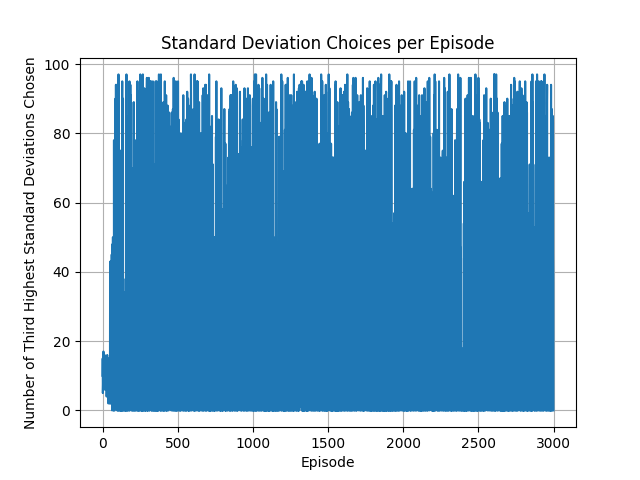
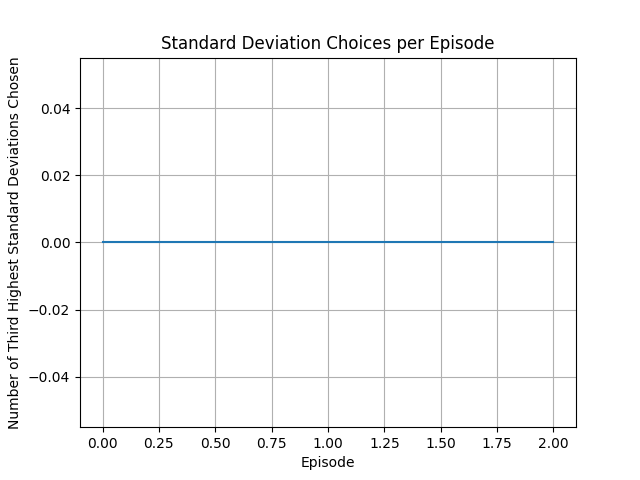
data simulation developed for one bad seed

diff --git a/SULI/src/simulation.py b/SULI/src/simulation.py
@@ -1,7 +1,7 @@
 import numpy as np
 import gym
 from gym import spaces
-from random import random
+from random import random, randint
 from tensorforce.environments import Environment
 from tensorforce.agents import Agent
 from tensorforce.execution import Runner
@@ -44,7 +44,7 @@ class CustomEnvironment(Environment):
     # allActions = np.array([])
     allEpisodes = np.array([])
 
-    for i in range(3000):
+    for i in range(3):
         allEpisodes = np.append(allEpisodes, i)
 
 
@@ -69,14 +69,15 @@ class CustomEnvironment(Environment):
             self.highest = 0
             self.sndHighest = 0
             self.trdHighest = 0
-            # self.simulation = [[0, 0, 0, 0, 0, 0, 7, 2, 0, 0], [0, 3, 0, 0, 0, 3, 0, 0, 0, 0],[0, 0, 2, 9, 0, 0, 0, 0, 0, 0],[0, 0, 0, 0, 1, 0, 0, 1, 0, 0],[0, 0, 0, 0, 0, 0, 1, 0, 8, 0]]
+            # self.simulation = []
+            self.worstSeed = randint(0, self.SAMPLES - 1)
 
 
             for i in range(self.SAMPLES):
                 col = []
                 for j in range(self.TRIALS):
                     if j < self.startingPoint:
-                        col.append(random())
+                        col.append(1)
                     else:
                         col.append(0)
                 self.GRID.append(col)
@@ -148,10 +149,11 @@ class CustomEnvironment(Environment):
         self.sndHighest = 0
         self.trdHighest = 0
         self.agent_pos = self.startingPoint
+        self.worstSeed = randint(0, self.SAMPLES - 1)
         for i in range(self.SAMPLES):
             for j in range(self.TRIALS):
                 if j < self.startingPoint:
-                    self.GRID[i][j] = random()
+                    self.GRID[i][j] = 1
                 else:
                     self.GRID[i][j] = 0
 
@@ -186,7 +188,7 @@ class CustomEnvironment(Environment):
             #     self.reward -= 1
             #     self.skippedRepeat += 1
             if actions == maxStdDev[0]:
-                self.reward += 1
+                self.reward = 1
                 self.highest += 1
             # elif actions == maxStdDev[1]:
             #     self.reward += 2
@@ -201,9 +203,14 @@ class CustomEnvironment(Environment):
             self.shape[0][self.agent_pos] = self.agent_pos
             self.shape[1][self.agent_pos] = actions
             self.shape[2][self.agent_pos] = self.reward
-            self.GRID[actions][self.agent_pos] = random()
+
+            if actions == self.worstSeed:
+                self.GRID[actions][self.agent_pos] = randint(0, 1000000)
+            else:
+                self.GRID[actions][self.agent_pos] = 1
             self.minSampling[actions] += 1
             self.agent_pos += 1
+            print(list(self.stdDev.values()))
         else:
             raise ValueError("Received invalid action={} which is not part of the action space".format(actions))
             # Account for the boundaries of the grid
@@ -227,7 +234,7 @@ class CustomEnvironment(Environment):
             CustomEnvironment.trdHighest_arr = np.append(CustomEnvironment.trdHighest_arr, self.trdHighest)
             # reward += 1
             self.sum += 1
-            if self.sum > 2000:
+            if self.sum > 2:
                 # mostChosen = nlargest(3, self.minSampling, key=self.minSampling.get)
                 # CustomEnvironment.firstCount += self.minSampling[mostChosen[0]]
                 # CustomEnvironment.secondCount += self.minSampling[mostChosen[1]]
@@ -246,7 +253,7 @@ def runEnv():
     agent = Agent.create(agent='a2c', environment=environment, batch_size=10, learning_rate=1e-3)
 
     # Train for 200 episodes
-    for _ in range(2000):
+    for _ in range(2):
         states = environment.reset()
         terminal = False
         while CustomEnvironment.extraCounter != 100:
@@ -258,7 +265,7 @@ def runEnv():
 
     # Evaluate for 100 episodes
     sum_rewards = 0.0
-    for _ in range(1000):
+    for _ in range(1):
         states = environment.reset()
         internals = agent.initial_internals()
         terminal = False
